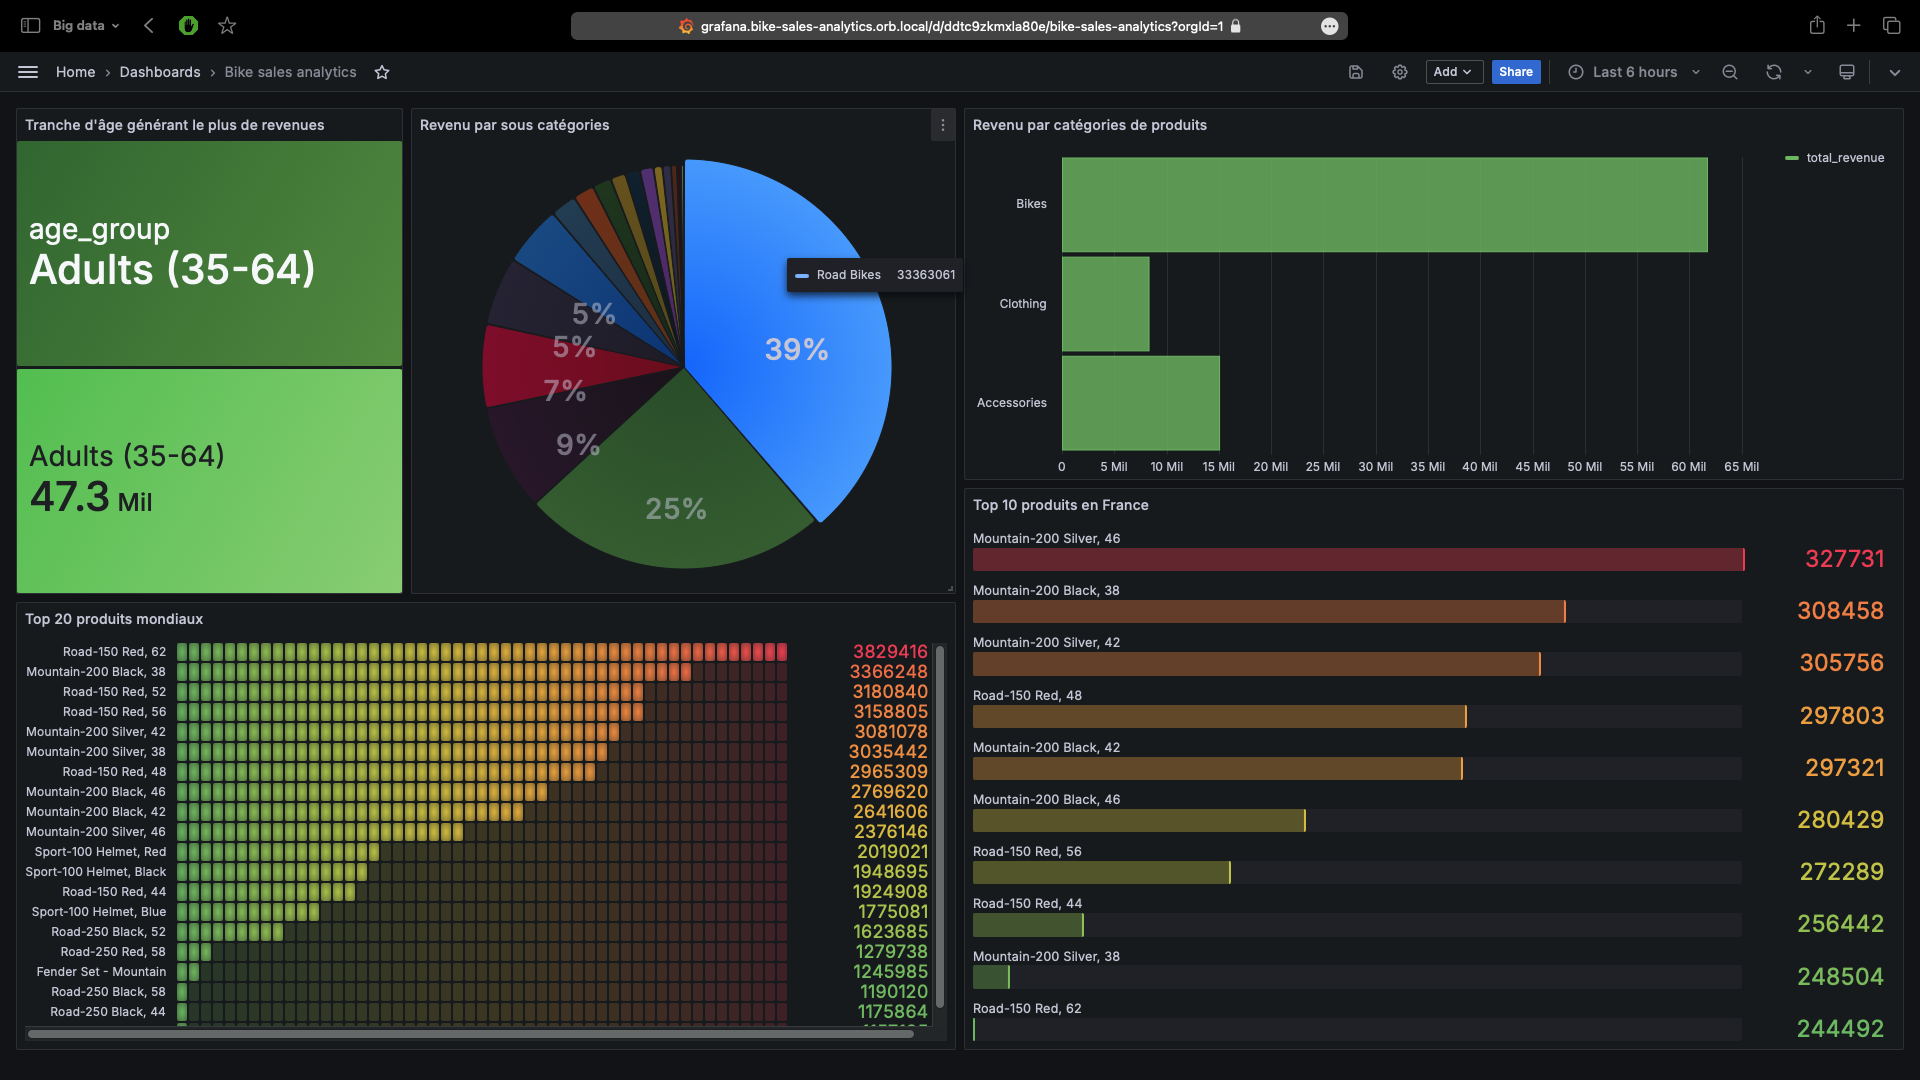
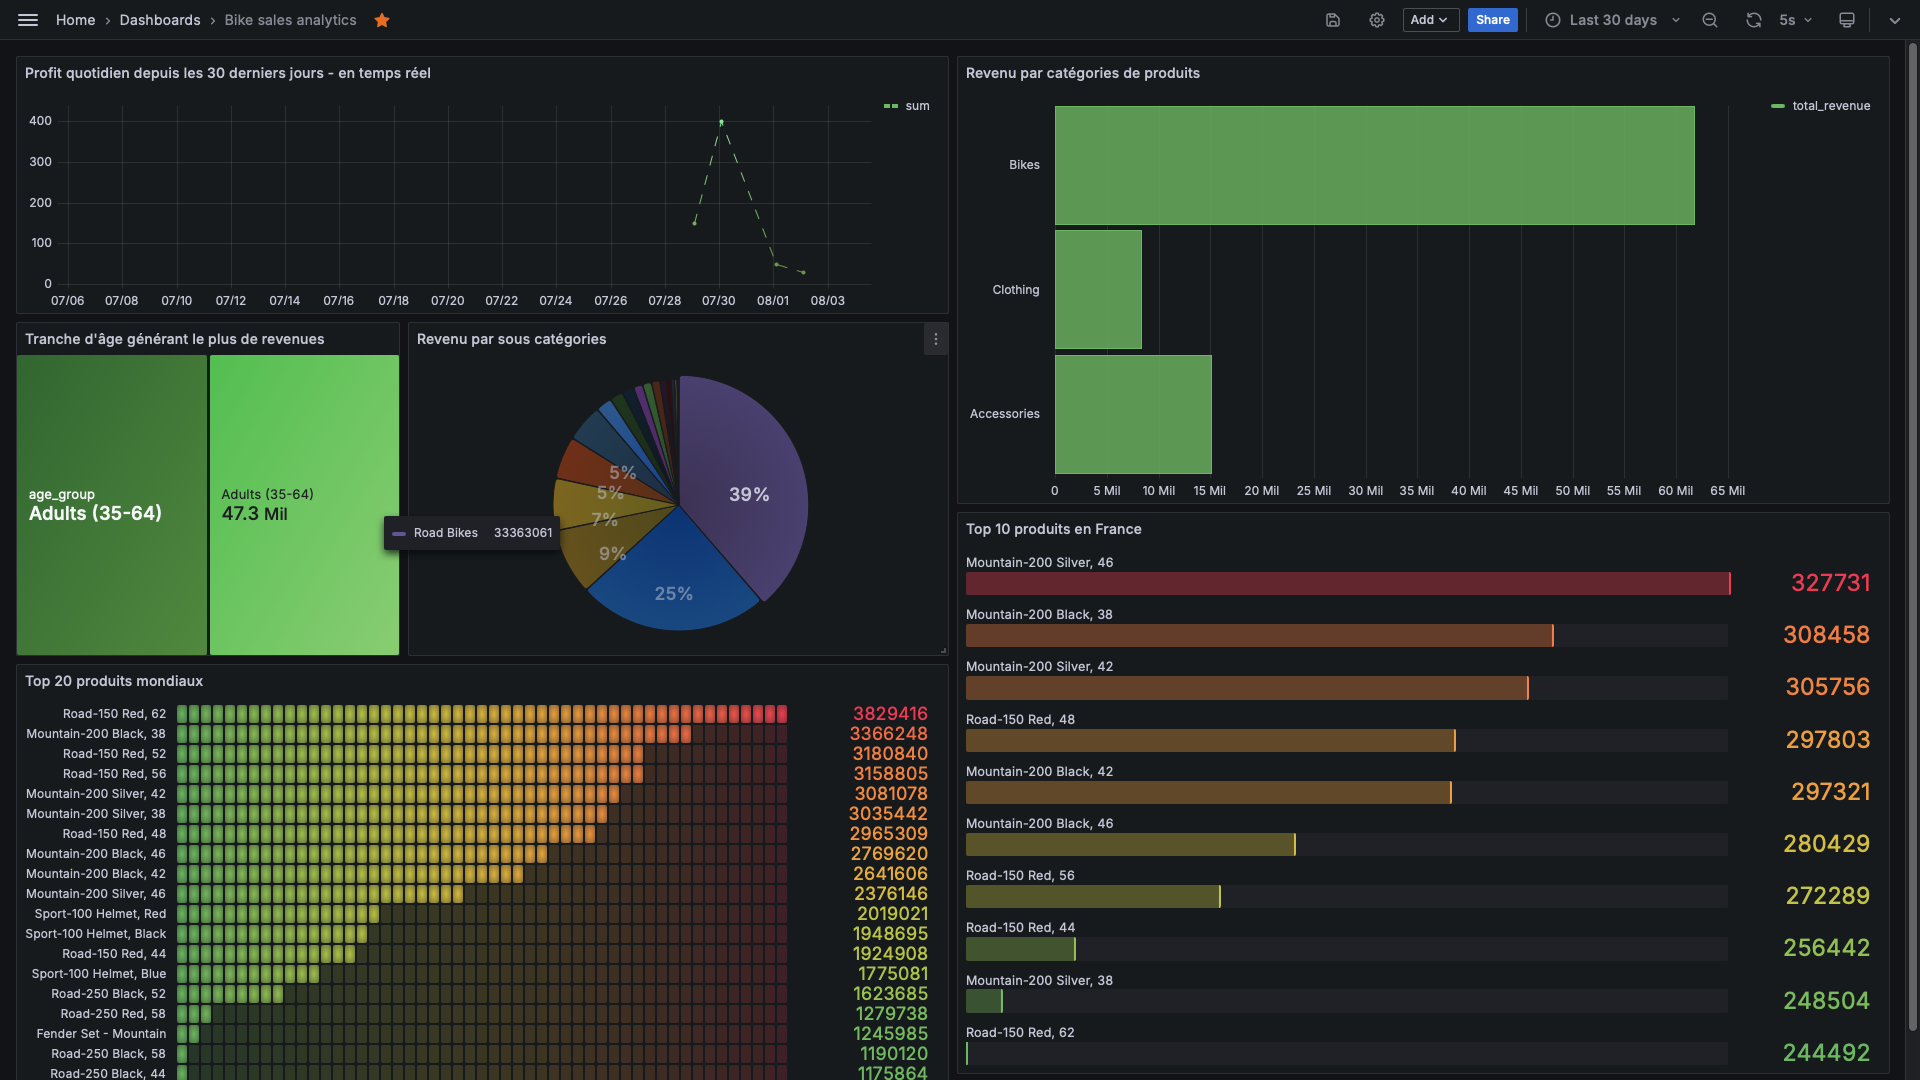
Update screenshot with time series graph and improve docs

diff --git a/README.md b/README.md
@@ -25,21 +25,35 @@ Voici une liste de question que nous voulons aborder:
 3. Quel est le top 20 des produits générant le plus de revenu ?
 4. Un top 10 des produits générant le plus de revenu en France ?
 5. Quel tranche d'âge de client réalise le plus d'achats ?
+6. En temps réel, combien de profit a été réalisé les 30 derniers jours ?
 
 ## Lancement
 
 ### Mise en place et lancement du projet
 
+#### 1. Lancer le traitement en batch
+
 ```bash
-source init.sh #ou ./init.sh
+source init.sh #ou ./init.sh 
 ```
 
-#### Détails du script:
+#### Détails du script batch
 
 - Pull l'image du cluster hadoop
 - Lancer le docker compose contenant notre base de donnée PostgreSQL et le setup de l'application Grafana
 - Déplacer les scripts Spark et les fichiers à traiter vers le cluster hadoop
 - Lancer les scripts et alimenter la base de donnée
+
+#### 2. Lancer le traitement en temps réel
+
+```bash
+source init-streaming.sh #ou ./init-streaming.sh
+```
+
+#### Détails du script streaming
+
+- Lancer le docker compose stream contenent un serveur fastAPI (port:8000) pour produire des données et le cluster kafka
+- Lancer le script d'écoute du producer kafka
 
 <p align="center">
   <img src="./docs/schema-architecture.png" alt="Schéma de l'architecture">
@@ -51,6 +65,33 @@ source init.sh #ou ./init.sh
 
 Enfin, veuillez vous rendre sur http://localhost:3000d/ddtc9zkmxla80e/bike-sales-analytics?orgId=1 et vous connecter sur Grafana (username: admin, password: admin) afin d'avoir la visualisation des [questions](#objectif).
 
+#### Comment produire des données en temps réel ?
+
+```bash
+# Client homme de 18 ans en Belgique achète un vélo de montagne MTB 1000 pour 250€, profit de 50€
+curl --location 'localhost:8000/produce/' \
+--header 'Content-Type: application/json' \
+--data '{
+           "Date": "2024-08-02",
+           "Day": 2,
+           "Month": 8,
+           "Year": 2024,
+           "Customer_Age": 18,
+           "Age_Group": "Young Adults (25-34)",
+           "Customer_Gender": "Male",
+           "Country": "Belgium",
+           "State": "California",
+           "Product_Category": "Bikes",
+           "Sub_Category": "Mountain Bikes",
+           "Product": "MTB 1000",
+           "Order_Quantity": 1,
+           "Unit_Cost": 200.00,
+           "Unit_Price": 250.00,
+           "Profit": 50.00,
+           "Cost": 200.00,
+           "Revenue": 250.00
+         }'
+```
 
 ## Ressources
 
